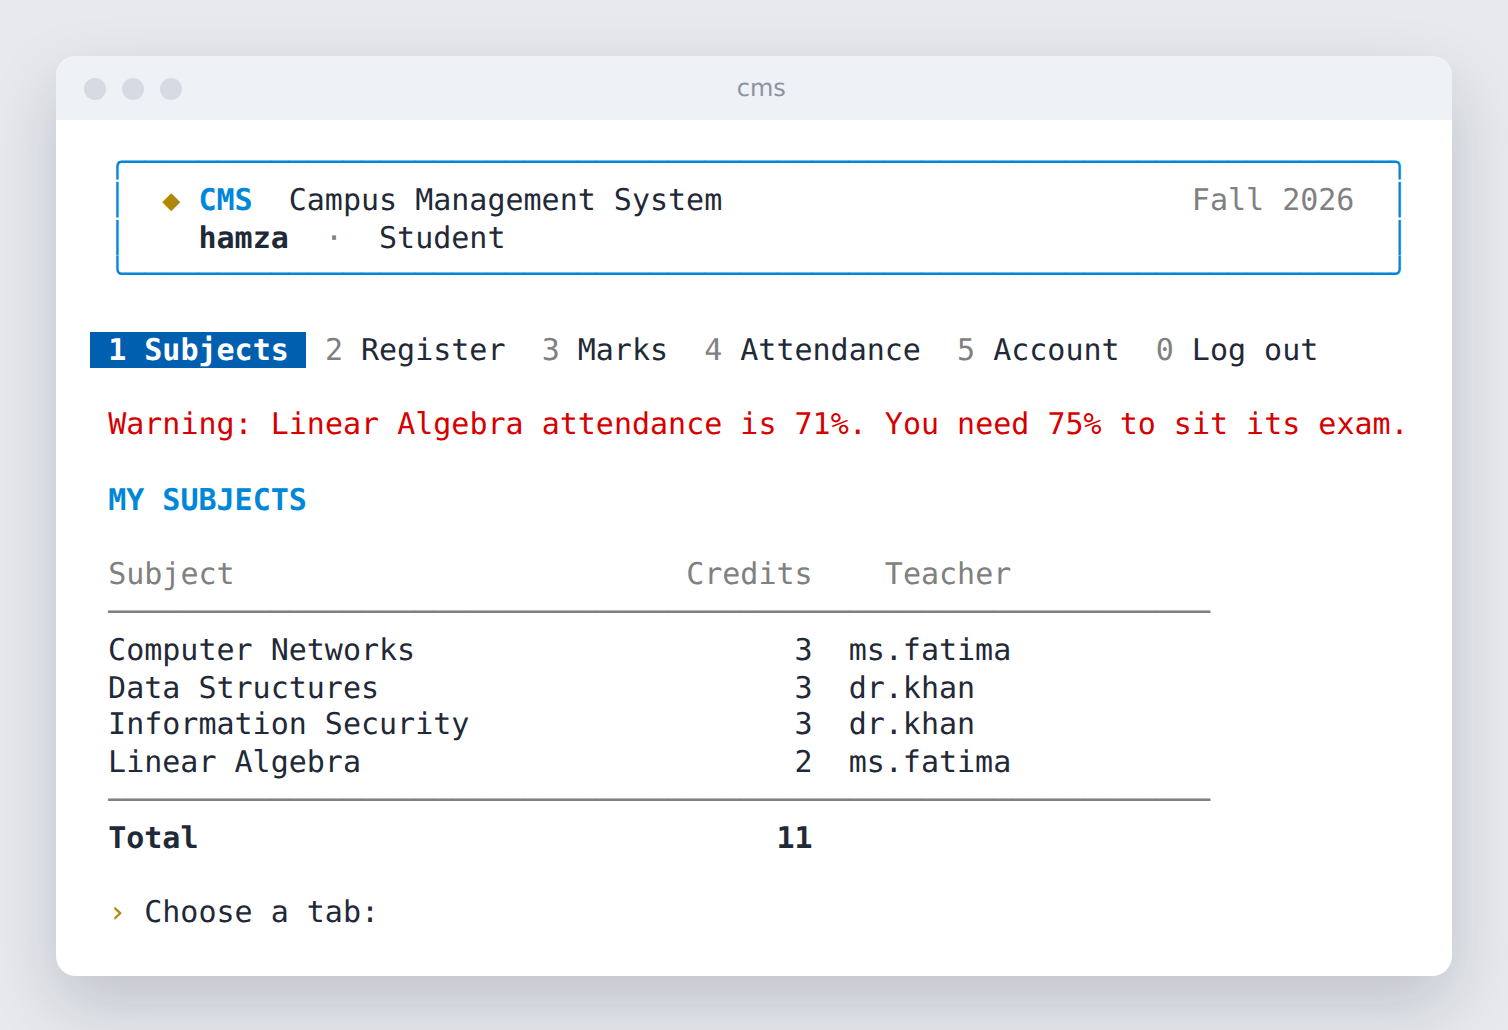
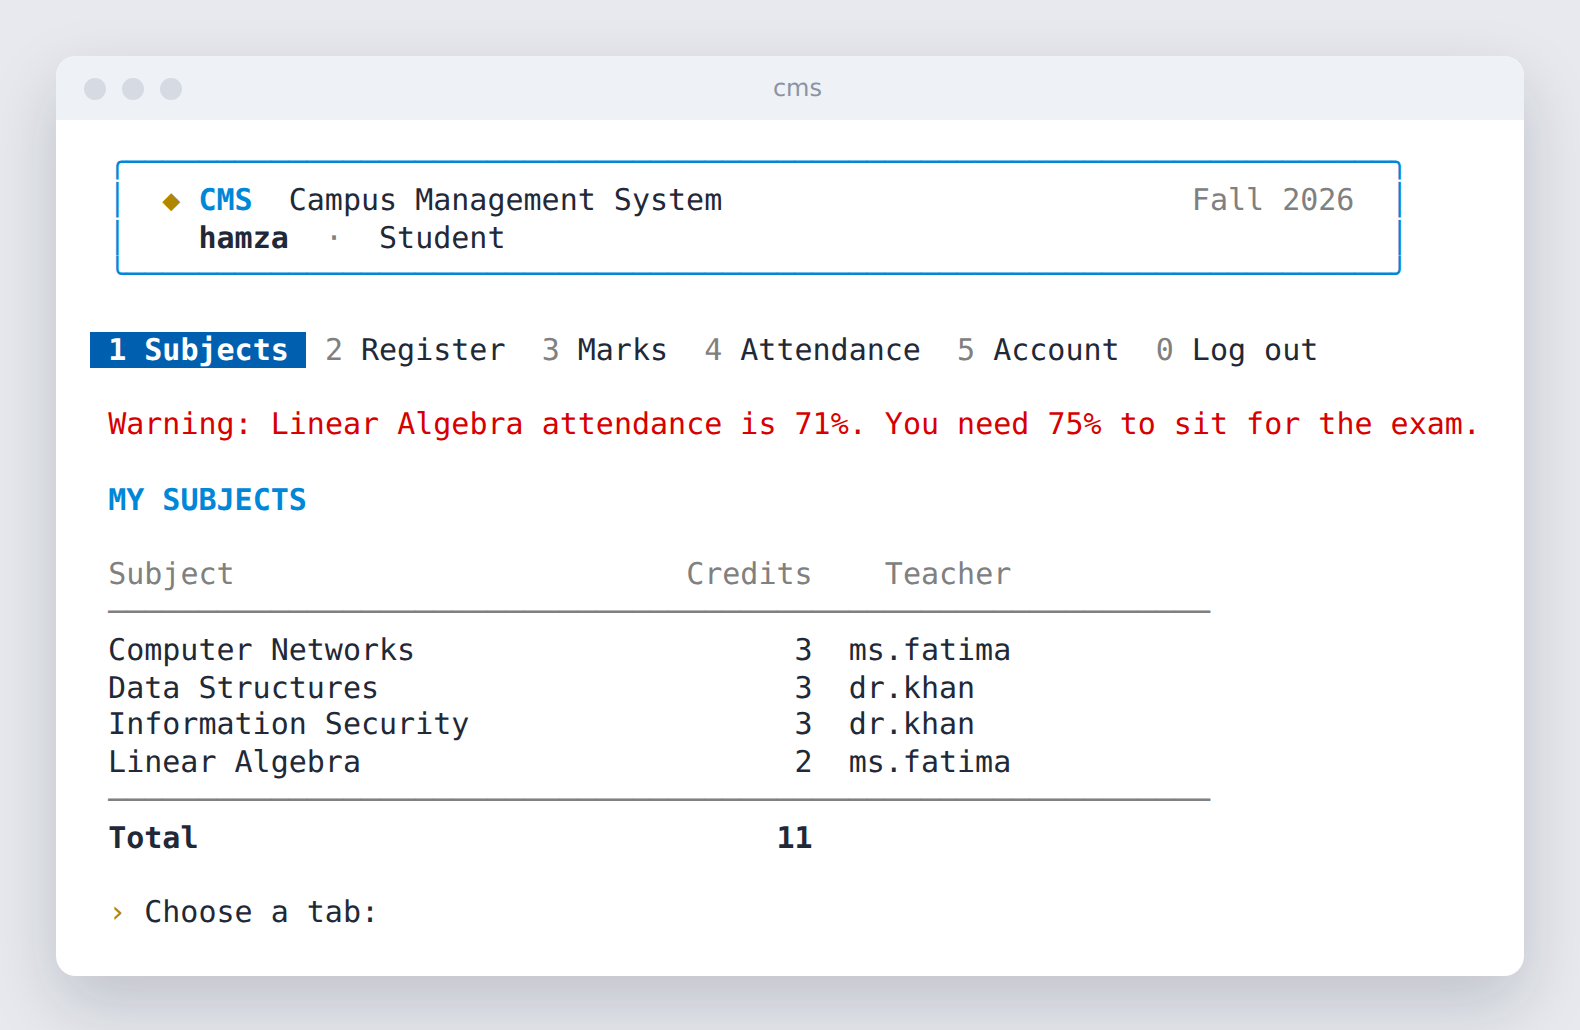
Reword attendance warnings

diff --git a/src/app.cpp b/src/app.cpp
@@ -137,7 +137,7 @@ std::vector<std::string> AdminDashboard::alerts() const {
 
 void AdminDashboard::atRisk() {
     c::section("At risk");
-    c::hint("Below the " + std::to_string(portal_.minAttendance()) + "% attendance requirement, so they can't sit that exam.");
+    c::hint("Below the " + std::to_string(portal_.minAttendance()) + "% attendance requirement, so they can't sit for that exam.");
     std::cout << "\n";
     std::vector<AttendanceShortage> list = portal_.shortages();
     if (list.empty()) {
@@ -160,7 +160,7 @@ void AdminDashboard::settings() {
     std::cout << "\n";
     int choice = c::readInt("Setting to change (0 for none): ", 0, 2);
     if (choice == 1) {
-        c::hint("Students below this can't sit that subject's exam. Allowed: " +
+        c::hint("Students below this can't sit for the exam. Allowed: " +
                 std::to_string(Portal::kLowestMinAttendance) + "% to " + std::to_string(Portal::kHighestMinAttendance) + "%.");
         int value = c::readInt("New requirement in %: ", Portal::kLowestMinAttendance, Portal::kHighestMinAttendance);
         portal_.setMinAttendance(user_, value);
@@ -430,7 +430,7 @@ void FacultyDashboard::classReport() {
     if (low) {
         std::cout << "\n";
         c::warn(plural(static_cast<std::size_t>(low), "student is", "students are") + " below " +
-                std::to_string(portal_.minAttendance()) + "% attendance and can't sit the exam.");
+                std::to_string(portal_.minAttendance()) + "% attendance and can't sit for the exam.");
     }
 }
 
@@ -455,7 +455,7 @@ std::vector<std::string> StudentDashboard::alerts() const {
     for (const AttendanceShortage& s : portal_.shortages()) {
         if (s.student != user_.username()) continue;
         out.push_back("Warning: " + s.subject + " attendance is " + std::to_string(attendancePercent(s.attended, s.total)) +
-                      "%. You need " + std::to_string(portal_.minAttendance()) + "% to sit its exam.");
+                      "%. You need " + std::to_string(portal_.minAttendance()) + "% to sit for the exam.");
     }
     return out;
 }
@@ -546,15 +546,17 @@ void StudentDashboard::myAttendance() {
         int total = static_cast<int>(history.size());
         allHere += here;
         allTotal += total;
-        if (total && attendancePercent(here, total) < portal_.minAttendance()) low.push_back(subject);
+        if (total && attendancePercent(here, total) < portal_.minAttendance()) {
+            low.push_back(subject + " attendance is " + std::to_string(attendancePercent(here, total)) + "%.");
+        }
         rows.push_back({subject, total ? std::to_string(here) + " / " + std::to_string(total) : c::dim("none yet"),
                         rate(here, total, portal_.minAttendance()), lastClasses(history), exam(here, total, portal_.minAttendance())});
     }
     c::table({{"Subject", 22}, {"Classes", 8, true}, {"Rate", 5, true}, {"  Last 7", 9}, {"Exam", 12}}, rows,
              {"Overall", allTotal ? std::to_string(allHere) + " / " + std::to_string(allTotal) : "-", rate(allHere, allTotal, portal_.minAttendance()), "", ""});
     if (!low.empty()) std::cout << "\n";
-    for (const std::string& subject : low) {
-        c::warn(subject + " is below " + std::to_string(portal_.minAttendance()) + "%, so you can't sit its exam yet.");
+    for (const std::string& line : low) {
+        c::warn(line + " You need " + std::to_string(portal_.minAttendance()) + "% to sit for the exam.");
     }
 }
 

diff --git a/README.md b/README.md
@@ -20,17 +20,17 @@ Every screen has the same layout: a campus card with your name and the current t
 - Add subjects with credit hours
 - Mark attendance for a class on any past date, one P or A per registered student
 - Give marks from 0 to 100
-- Class report: each student's attendance, mark and last 7 classes, the class average, and whether each student can sit the exam
+- Class report: each student's attendance, mark and last 7 classes, the class average, and whether each student can sit for the exam
 
 **Student portal**
 - Register for subjects and see total credit hours
 - Marks per subject with an average
 - Attendance per subject, such as "5 / 6, 83%", with the last 7 classes as dots and an overall total
-- Exam eligibility per subject: below the attendance requirement, a student can't sit that subject's exam
+- Exam eligibility per subject: below the attendance requirement, a student can't sit for that subject's exam
 
 **Attendance requirement**
 - Set by the admin, 75% by default. A subject with no classes held yet never counts against a student.
-- Below it, a student is "Not eligible" for that subject's exam, shown in red wherever their attendance appears.
+- Below it, a student is "Not eligible" to sit for that subject's exam, shown in red wherever their attendance appears.
 - Warnings appear right after logging in: students see their own subjects, faculty see how many of their students are at risk, and the admin sees the total.
 
 **Everyone**
